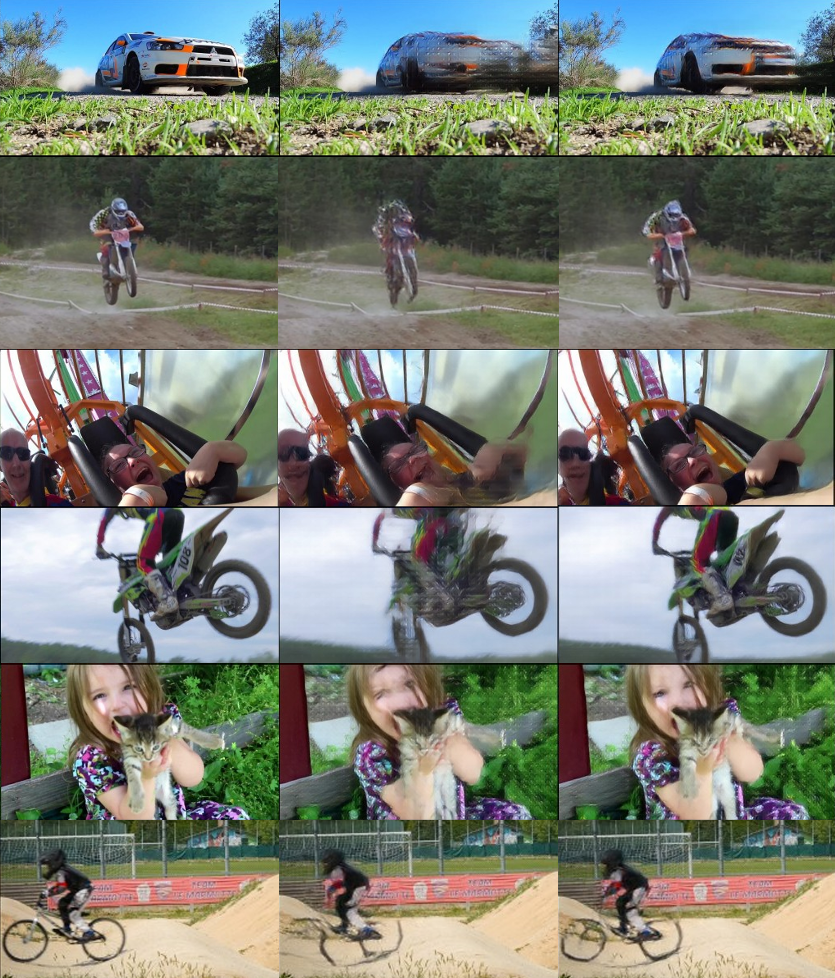
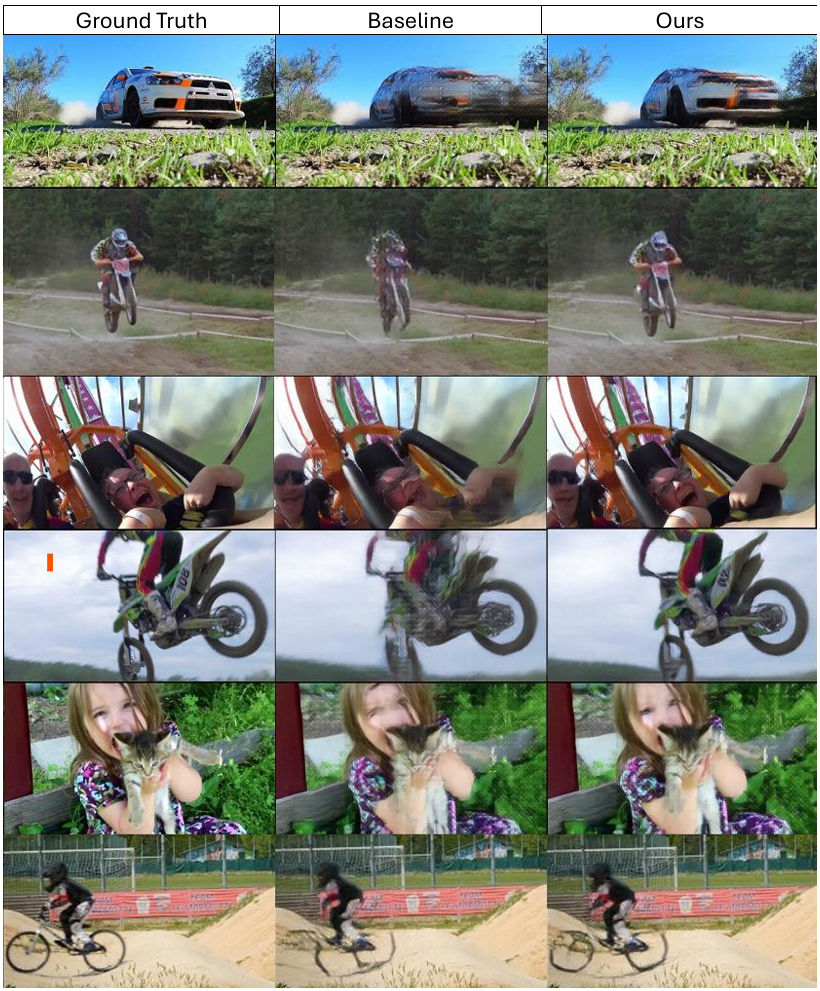
Inference updated

diff --git a/inference.py b/inference.py
@@ -7,17 +7,38 @@ import argparse
 import yaml
 import os
 
+from src.utils import InputPadder
+from src.utils import preprocess_frames
+from RAFT.raft_utils import (
+    load_raft_model,
+    compute_raft_warp
+)
+from gmflow.gmflow_utils import load_gmflow_model, compute_gmflow_warp_batched
 
 def interpolate(frame0, frame1):
     h, w = frame0.shape[2:]
     image_size = [h, w]
     padder = InputPadder(image_size)
+
+    with torch.no_grad():
+        fwd_flow, bwd_flow = compute_gmflow_warp_batched(
+            flow_model,
+            frame0,
+            frame1
+        )
+
+    fwd_flow = fwd_flow.detach()
+    bwd_flow = bwd_flow.detach()
+
+    fwd_flow = padder.pad(fwd_flow)
+    bwd_flow = padder.pad(bwd_flow)
+
     difference = ((torch.mean(torch.cosine_similarity(frame0, frame1),
                               dim=[1, 2]) - args.cos_sim_mean) / args.cos_sim_std).unsqueeze(1).to(device)
     cond_frames = padder.pad(torch.cat((frame0, frame1), dim=0))
     new_h, new_w = cond_frames.shape[2:]
     noise = torch.randn([1, new_h // 32 * new_w // 32, args.model_args["latent_dim"]]).to(device)
-    denoise_kwargs = {"cond_frames": cond_frames, "difference": difference}
+    denoise_kwargs = {"cond_frames": cond_frames, "flow_fwd": fwd_flow, "flow_bwd": bwd_flow, "difference": difference}
     samples = sample_fn(noise, eden.denoise, **denoise_kwargs)[-1]
     denoise_latents = samples / args.vae_scaler + args.vae_shift
     generated_frame = eden.decode(denoise_latents)
@@ -27,9 +48,9 @@ def interpolate(frame0, frame1):
 
 device = "cuda:0"
 parser = argparse.ArgumentParser()
-parser.add_argument("--config", type=str, default="configs/eval_eden.yaml")
-parser.add_argument("--frame_0_path", type=str, default="examples/frame_0.jpg")
-parser.add_argument("--frame_1_path", type=str, default="examples/frame_1.jpg")
+parser.add_argument("--config", type=str, default="configs/eval.yaml")
+parser.add_argument("--frame_0_path", type=str, default="./images/frame0.jpg")
+parser.add_argument("--frame_1_path", type=str, default="./images/frame1.jpg")
 parser.add_argument("--video_path", type=str, default=None)
 parser.add_argument("--interpolated_results_dir", type=str, default="interpolation_outputs")
 args = parser.parse_args()
@@ -44,6 +65,18 @@ eden.load_state_dict(ckpt["eden"])
 eden.to(device)
 eden.eval()
 del ckpt
+
+flow_path = args.flow_path
+print(f"Loading GMFlow model from {flow_path} ...")
+flow_model = load_gmflow_model(
+    flow_path,
+    with_refine=True
+)
+
+flow_model.requires_grad_(False)
+
+flow_model.eval()
+
 transport = create_transport("Linear", "velocity")
 sampler = Sampler(transport)
 sample_fn = sampler.sample_ode(sampling_method="euler", num_steps=2, atol=1e-6, rtol=1e-3)
@@ -51,27 +84,7 @@ video_path = args.video_path
 interpolated_results_dir = args.interpolated_results_dir
 os.makedirs(interpolated_results_dir, exist_ok=True)
 frame_0_path, frame_1_path = args.frame_0_path, args.frame_1_path
-if video_path:
-    print(f"Interpolating Video ({video_path}) ...")
-    interpolated_video_save_path = f"{interpolated_results_dir}/interpolated.mp4"
-    interpolated_video = []
-    video_frames, _, video_info = torchvision.io.read_video(video_path)
-    video_frames = video_frames.float().permute(0, 3, 1, 2) / 255.
-    fps = video_info["video_fps"]
-    frames_num = video_frames.shape[0]
-    for i in range(frames_num - 1):
-        with torch.no_grad():
-            frame_0, frame_1 = video_frames[i].unsqueeze(0).to(device), video_frames[i + 1].unsqueeze(0).to(device)
-            interpolated_frame = interpolate(frame_0, frame_1)
-            interpolated_video.append(frame_0.cpu())
-            interpolated_video.append(interpolated_frame.cpu())
-            del frame_0, frame_1, interpolated_frame
-            torch.cuda.empty_cache()
-    interpolated_video.append(video_frames[-1].unsqueeze(0))
-    interpolated_video = (torch.cat(interpolated_video, dim=0).permute(0, 2, 3, 1) * 255.).cpu()
-    torchvision.io.write_video(interpolated_video_save_path, interpolated_video, fps=2*fps)
-    print(f"Saved interpolated video in {interpolated_video_save_path}.")
-elif frame_0_path and frame_1_path:
+if frame_0_path and frame_1_path:
     print(f"Interpolating Image-pairs {frame_0_path}-{frame_1_path} ...")
     frame_0 = (torchvision.io.read_image(frame_0_path) / 255.).unsqueeze(0).to(device)
     frame_1 = (torchvision.io.read_image(frame_1_path) / 255.).unsqueeze(0).to(device)
@@ -80,5 +93,5 @@ elif frame_0_path and frame_1_path:
     torchvision.utils.save_image(interpolated_frame, interpolated_frame_path)
     print(f"Saved interpolated image in {interpolated_frame_path}.")
 else:
-    assert "There are no images or videos to be interpolated!"
+    assert "There are no images to be interpolated!"
 

diff --git a/eval.py b/eval.py
@@ -86,8 +86,6 @@ def main():
     model = load_model(model_name, **args.model_args)
     logger.info(f"{model_name} Parameters: {sum(p.numel() for p in model.parameters()):,}")
     ckpt = torch.load(args.pretrained_eden_path, map_location="cpu")
-    print(args.pretrained_eden_path)
-    print("ckecpint keys: ",ckpt.keys())
     model.load_state_dict(ckpt["eden"])
     transport = create_transport("Linear", "velocity")
     sampler = Sampler(transport)
@@ -117,7 +115,6 @@ def main():
 
     # begin training
     model.eval()
-    #model = model if model.module is None else model.module
     model = model.module if hasattr(model, "module") else model
     steps = 0
     results = {"PSNR": 0., "SSIM": 0., "LPIPS": 0., "FloLPIPS": 0., "L1": 0.}
@@ -223,13 +220,9 @@ def main():
             ).to(accelerator.device)
 
             denoise_kwargs = {
-
                 "cond_frames": cond_frames,
-
                 "difference": difference,
-
                 "flow_fwd": fwd_flow,
-
                 "flow_bwd": bwd_flow
             }
 
@@ -269,12 +262,7 @@ def main():
         ssim = cal_metrics.cal_ssim(generated_frames, gt)
         lpips = cal_metrics.cal_lpips(generated_frames, gt)
         flolpips = cal_metrics.cal_flolpips(generated_frames, gt, frame_0, frame_1)
-        #l1 = torch.mean(torch.abs(generated_frames - gt))
         l1 = torch.abs(generated_frames - gt)
-        cur_batch_size = frame_0.shape[0]
-        #print("cur batch size: ", cur_batch_size, accelerator.gather(psnr.repeat(cur_batch_size)).shape)
-        #print(accelerator.gather(psnr.repeat(cur_batch_size)))
-        #print("PSNR sum:", psnr.shape, accelerator.gather(psnr).shape)
         results["PSNR"] += accelerator.gather(psnr).sum().item()
         results["SSIM"] += accelerator.gather(ssim).sum().item()
         results["LPIPS"] += accelerator.gather(lpips).sum().item()
@@ -294,7 +282,7 @@ def main():
         total_samples = steps * local_batch_size * accelerator.num_processes
     else:
         total_samples = dataloader.dataset.__len__()
-    print("PSNR total: ", results["PSNR"], "SSIM total: ", results["SSIM"], "LPIPS total: ", results["LPIPS"], "FloLPIPS total: ", results["FloLPIPS"], "L1 total: ", results["L1"])
+    #print("PSNR total: ", results["PSNR"], "SSIM total: ", results["SSIM"], "LPIPS total: ", results["LPIPS"], "FloLPIPS total: ", results["FloLPIPS"], "L1 total: ", results["L1"])
     print(f"Total samples evaluated: {total_samples}. ", dataloader.dataset.__len__(), accelerator.num_processes)
     for key in results.keys():
         results[key] /= total_samples

diff --git a/README.md b/README.md
@@ -1,5 +1,6 @@
 
 # EDENFlow: Flow-Guided Diffusion Transformer for Video Frame Interpolation
+[**🚀 Run Inference on Google Colab**](https://colab.research.google.com/drive/1KMvpWA_1lNl8n3Nv_NVprXUrSS6foGVI?usp=sharing)
 
 We introduce **EDENFlow**, a diffusion-based framework for high-quality video frame interpolation, designed for challenging scenes with large and complex motion.
 
